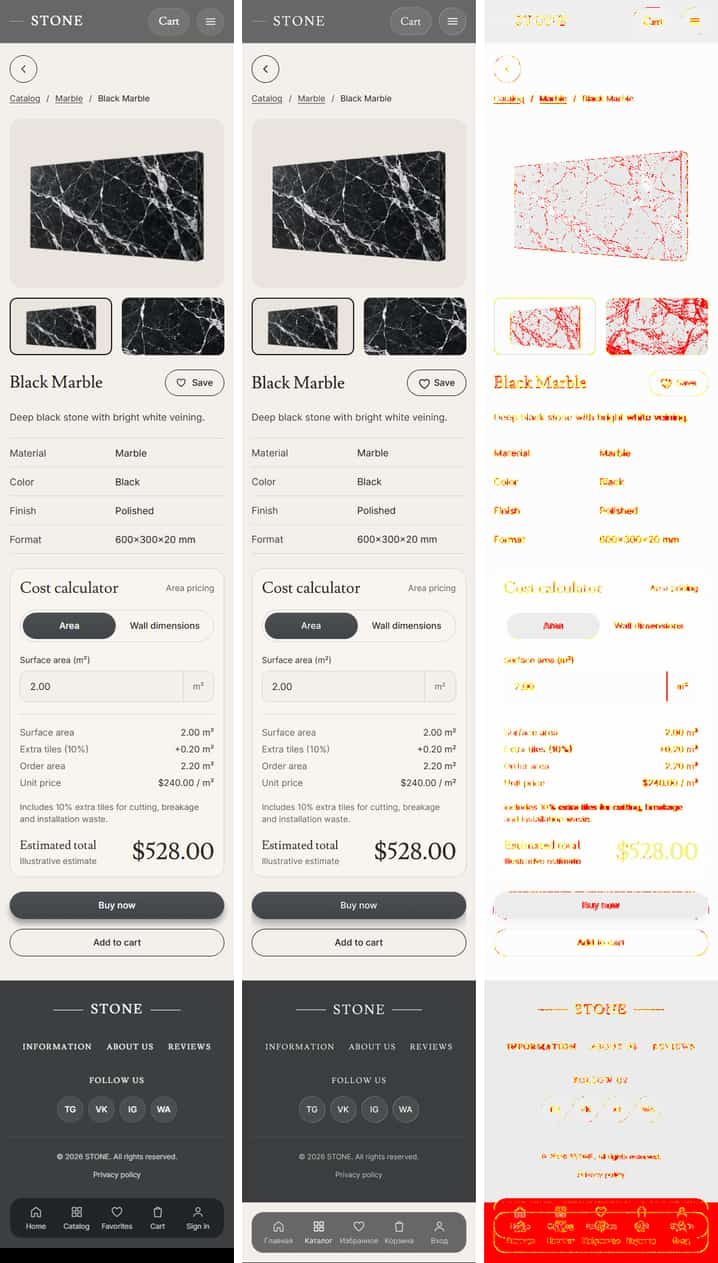
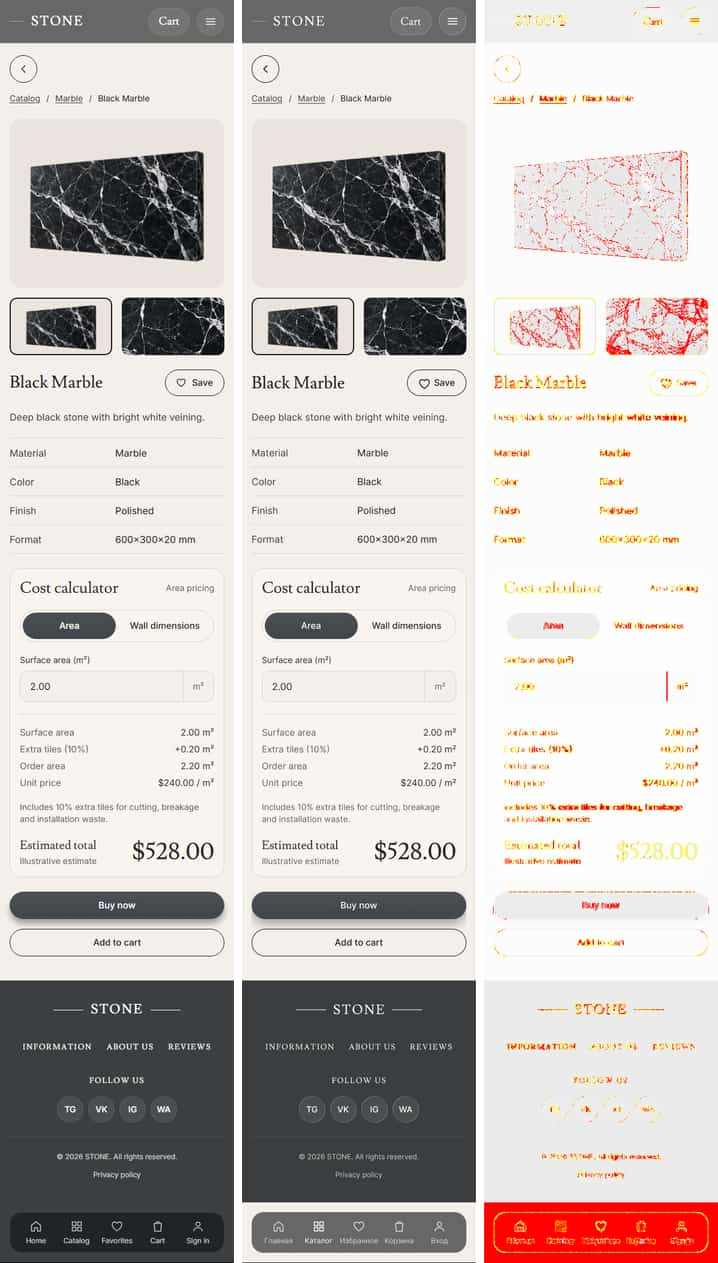
docs: update Phase 3 page comparison after fix round 1
Recompress the Figma page references losslessly, refresh the strips and results.

Changed region(s): [[0.0, 0.9264, 0.337, 1.0], [0.7047, 0.9264, 0.9805, 0.9881]]

diff --git a/docs/QA/phase-3-pages.md b/docs/QA/phase-3-pages.md
@@ -1,4 +1,4 @@
-# Phase 3 pages: Figma visual comparison notes
+# Phase 3 pages: Figma visual comparison notes
 
 Branch `feat/phase-3-pages`. Source of truth: Figma `1vEGuD9cYYFNynyByUGHwF` (read only).
 Raw output of the run: [`phase-3/results.md`](phase-3/results.md). Only a curated set of images is committed (see "Evidence").
@@ -42,42 +42,64 @@ Status "Accepted" means the difference is explained by the classes shown. Classe
 copy Figma does not (placeholder-price line, language switch); height = shift from that copy; glass = glass or
 backdrop approximation; font = text antialiasing; frame = Figma frame inconsistency; defect = see the defects list.
 
-| Page (route)                              | Width | Mismatch % | Height delta | Classification                                                                                             | Status            |
-| ----------------------------------------- | ----- | ---------- | ------------ | ---------------------------------------------------------------------------------------------------------- | ----------------- |
-| home (`/en`)                              | 1440  | 12.78      | +2           | glass (panel tone, footer), language switch, "Prices are illustrative" line, old-price frame, font; D1, D2 | Accepted + D1, D2 |
-| home                                      | 1024  | 19.29      | +2           | same as 1440; Figma Taupe Rock price $33 vs seed $32 (frame)                                               | Accepted + D1, D2 |
-| home                                      | 768   | 25.81      | +1           | same as 1440; hero reinterpretation as drawn; prev arrow disabled at the start (behaviour)                 | Accepted + D1, D2 |
-| home                                      | 390   | 10.67      | -30          | footer flat vs Figma gradient, tab bar reference (see below), "Prices are illustrative" line, hero covered | Accepted          |
-| catalog (`/en/catalog`)                   | 1440  | 19.03      | +20          | height (placeholder-price line, +20 px shifts the grid), language switch, font                             | Accepted          |
-| catalog                                   | 1024  | 21.39      | +20          | height (placeholder-price line), font                                                                      | Accepted          |
-| catalog                                   | 768   | 21.53      | +20          | height (placeholder-price line), font                                                                      | Accepted          |
-| catalog                                   | 390   | 21.38      | -4           | height (placeholder-price line), cards stretch to the row height (D3), tab bar reference                   | Accepted + D3     |
-| black-marble (`/en/catalog/black-marble`) | 1440  | 0.86       | 0            | font                                                                                                       | Accepted          |
-| black-marble                              | 1024  | 1.26       | 0            | font                                                                                                       | Accepted          |
-| black-marble                              | 768   | 4.24       | -8           | font; thumbnails to title gap 6 to 8 px tighter (D4)                                                       | Accepted + D4     |
-| black-marble                              | 390   | 6.94       | -25          | tab bar reference (flat grey, Figma), footer bottom band, font                                             | Accepted          |
-| charcoal-ledger                           | 1440  | 1.09       | 0            | font                                                                                                       | Accepted          |
-| charcoal-ledger                           | 1024  | 1.42       | 0            | font                                                                                                       | Accepted          |
-| charcoal-ledger                           | 768   | 4.38       | -8           | font; D4                                                                                                   | Accepted + D4     |
-| charcoal-ledger                           | 390   | 6.65       | -25          | tab bar reference, footer bottom band, font                                                                | Accepted          |
-| concrete-paver                            | 1440  | 0.91       | 0            | font                                                                                                       | Accepted          |
-| concrete-paver                            | 1024  | 1.15       | 0            | font                                                                                                       | Accepted          |
-| concrete-paver                            | 768   | 4.10       | -8           | font; D4                                                                                                   | Accepted + D4     |
-| concrete-paver                            | 390   | 6.64       | -25          | tab bar reference, footer bottom band, font                                                                | Accepted          |
+| Page (route)                              | Width | Mismatch % | Height delta | Classification                                                                                      | Status   |
+| ----------------------------------------- | ----- | ---------- | ------------ | --------------------------------------------------------------------------------------------------- | -------- |
+| home (`/en`)                              | 1440  | 1.08       | +2           | font; language switch; "Prices are illustrative" line; old-price frame; D1 fixed                    | Accepted |
+| home                                      | 1024  | 2.64       | +2           | same as 1440; Figma Taupe Rock price $33 vs seed $32 (frame); Prev arrow disabled at the start (D2) | Accepted |
+| home                                      | 768   | 10.64      | +1           | footer flat vs Figma glass over a fade (owner item), font, "Prices are illustrative" line           | Accepted |
+| home                                      | 390   | 3.41       | -6           | footer flat vs Figma gradient, hero covered by the catalog panel as drawn, tab bar reference        | Accepted |
+| catalog (`/en/catalog`)                   | 1440  | 19.03      | +20          | height (placeholder-price line, +20 px shifts the grid), language switch, font                      | Accepted |
+| catalog                                   | 1024  | 21.39      | +20          | height (placeholder-price line), font                                                               | Accepted |
+| catalog                                   | 768   | 21.53      | +20          | height (placeholder-price line), font                                                               | Accepted |
+| catalog                                   | 390   | 21.82      | +20          | height (placeholder-price line), tab bar reference; card heights match Figma (D3 withdrawn)         | Accepted |
+| black-marble (`/en/catalog/black-marble`) | 1440  | 0.86       | 0            | font                                                                                                | Accepted |
+| black-marble                              | 1024  | 1.26       | 0            | font                                                                                                | Accepted |
+| black-marble                              | 768   | 1.39       | 0            | font (D4 fixed: was 4.24 %, -8 px)                                                                  | Accepted |
+| black-marble                              | 390   | 6.74       | -1           | tab bar reference (flat grey in Figma), font (D5 fixed: was -25 px)                                 | Accepted |
+| charcoal-ledger                           | 1440  | 1.09       | 0            | font                                                                                                | Accepted |
+| charcoal-ledger                           | 1024  | 1.42       | 0            | font                                                                                                | Accepted |
+| charcoal-ledger                           | 768   | 1.54       | 0            | font (D4 fixed: was 4.38 %)                                                                         | Accepted |
+| charcoal-ledger                           | 390   | 6.45       | -1           | tab bar reference, font (D5 fixed)                                                                  | Accepted |
+| concrete-paver                            | 1440  | 0.91       | 0            | font                                                                                                | Accepted |
+| concrete-paver                            | 1024  | 1.15       | 0            | font                                                                                                | Accepted |
+| concrete-paver                            | 768   | 1.25       | 0            | font (D4 fixed: was 4.10 %)                                                                         | Accepted |
+| concrete-paver                            | 390   | 6.44       | -1           | tab bar reference, font (D5 fixed)                                                                  | Accepted |
 
-Every row above 5 % is explained: the home and catalog rows by the classes shown (they are layout-shift dominated, the
-catalog grid itself matches card for card at 1440), the three product 390 rows by the Figma tab bar reference and the
-25 px height of its bottom band. The product pages at 1440 and 1024 are within 1.5 % (text antialiasing only):
-gallery, specs, calculator, buttons, footer match.
+Every row above 5 % is explained: the catalog rows by the 20 px placeholder-price line that shifts the whole grid
+(the grid itself matches card for card), home 768 by the flat footer (the footer is 370 px tall there), and the three
+product 390 rows by the Figma tab bar reference (a baked flat grey, see Phase 2 notes). The product pages at 1440, 1024
+and 768 are within 1.6 % (text antialiasing only): gallery, specs, calculator, buttons, footer match.
 
-## Defects (for the lead, not fixed here)
+## Defects and their status
 
-| ID  | Page, component                                         | Figma node                                       | Expected (Figma)                                           | Actual                                                                                                                                                                                         | Severity             |
-| --- | ------------------------------------------------------- | ------------------------------------------------ | ---------------------------------------------------------- | ---------------------------------------------------------------------------------------------------------------------------------------------------------------------------------------------- | -------------------- |
-| D1  | Home, section panels (glass panel behind each carousel) | 722:1300 (1440), 722:1563 (1024), 724:1669 (768) | Panel fill darker: sampled rgb about 71,71,72 and 87,88,90 | Panel lighter: rgb 98,98,98 and 113,113,115 at the same pixels (about 27 levels), same photo behind; glass fill or blur weaker than Figma                                                      | Medium               |
-| D2  | Home, carousel arrows at 1440                           | 722:1300                                         | Prev and Next drawn enabled (white circle, dark arrow)     | Both arrows dimmed (disabled): the three cards fit, nothing to scroll. At 1024 and 768 Prev is dimmed at the start. Behaviour is deliberate in Carousel, but it differs from every Figma frame | Low (needs a ruling) |
-| D3  | Catalog at 390, product grid                            | 922:26324                                        | Cards keep their own height in a row                       | Cards stretch to the tallest card of the row (Concrete Paver row: neighbour card has empty space)                                                                                              | Low                  |
-| D4  | Product at 768, rhythm below the gallery                | 782:11639 (Black Marble)                         | Thumbnails to title about 6 to 8 px more, page 2361 px     | Page 2353 px (8 px shorter), title block starts higher                                                                                                                                         | Low                  |
+Found by the first run, handled in fix round 1 (root cause first, evidence below).
+
+| ID  | Page, component                            | Figma node                                     | Finding                                                                                             | Status                                                                                           |
+| --- | ------------------------------------------ | ---------------------------------------------- | --------------------------------------------------------------------------------------------------- | ------------------------------------------------------------------------------------------------ |
+| D1  | Home, section panels                       | 722:1310 (panel), 722:1300, 722:1563, 724:1669 | Panel about 27 levels lighter than Figma at the same pixels                                         | FIXED (cause below); home 1440 12.78 % to 1.08 %, 1024 19.29 % to 2.64 %                         |
+| D2  | Home, carousel arrows                      | 722:1317, 722:1325 (1440), 722:1300            | Arrows dimmed when nothing scrolls (1440) or at the start (Prev, 1024 and 768); Figma draws enabled | Kept: deliberate behaviour (a disabled control that cannot move). Owner checklist                |
+| D3  | Catalog grid at 390                        | 922:26324                                      | Reported "cards stretch to the row height"                                                          | WITHDRAWN, a misreading: the grid is already `items-start`; heights 318 / 340 vs Figma 316 / 338 |
+| D4  | Product at 768, gallery to title gap       | 782:11639 (Gallery 782:11645, Info 782:11650)  | Info block started 24 px under the thumbnails, Figma 32                                             | FIXED (`md:gap-8`); page now 2361 px like Figma; mismatch 4.24 % to 1.39 %                       |
+| D5  | Footer at 390 (new, found while fixing D4) | 782:11752 (370 px footer), 782:11727           | The 100 px tab-bar padding replaced the footer's own 24 px bottom padding (impl 446 px vs 470)      | FIXED (`pb-footer-tabbar` = 24 + 100); every 390 product page now within 1 px of Figma           |
+
+D1 root cause. The fill matches Figma exactly (`surface/panel` #1214168c, blur 12 = Figma radius 24, border, shadow, radius
+and the backdrop photo outside the panels within 3 to 5 levels). Inside the panel Figma is darker at every sampled point
+by the same factor: at (100,780) 71 vs 98, at (100,1250) 65 vs 89, at (1330,1250) 70 vs 99, at (1330,1700) 71 vs 101,
+which is an effective fill alpha of 0.70 instead of 0.55. The cause is the drop shadow `0 16 40 rgba(0,0,0,.35)`: Figma
+draws it THROUGH the translucent fill (it is visible behind the node), while CSS `box-shadow` is clipped inside the
+border box. Fix: `--effect-glass-panel-shadow-through: 0.28` and the `glass-panel-veil` utility (a 28 % black layer over
+the fill), applied to the home section panels. After: the same four points read 71 vs 71, 64 vs 65, 71 vs 70, 73 vs 71.
+Near the top edge the veil overshoots slightly (80 vs 87 at (700,690)) because the real shadow fades towards the edge.
+This is not the Phase 2 "blur 2x" question: the blur values were already equal. Guarded by an e2e test on the veil.
+
+D4 numbers (Figma 782:11639 against the page at 768, absolute y; layout identical except one gap): Product 158, Columns
+202, thumbnails 772.67 (gap 16 under the 554.67 image), thumbnails end 904.67, Info 936.67 (gap 32), Description +76,
+Specs +122 (193), Calculator +339 (503), Actions +866 (108), Main padding-bottom 80, Footer 370. Before the fix every item
+after the gallery sat 8 px higher (Info at 928.66). At 390 the gap is 24 in both (418.06 - 394.06), unchanged. Guarded by
+an e2e test (gap 32 at 768, 24 at 390).
+
+D5 numbers (Figma 782:11727): Footer instance 370 px at y 1634.06, band 100 px below it (tab bar at 2020, page ends
+2104). Implementation footer was 446 px (346 content + 100) because `pb-tabbar` replaced the footer's own `pb-6`.
 
 Not defects (Figma inconsistency, listed for the owner): the old price is struck through in the catalog frames but
 drawn plain in the home frames, while both use the same component (the implementation strikes through everywhere);
@@ -115,7 +137,7 @@ darker bar fill (about 0.80 alpha gives at least 4.5:1) or inactive labels at fu
 - Hero: 1440 backdrop upscaled from the 1440 source to the 1984 box; 1024 and 768 use their scene crops, 390 hero is
   covered by the catalog panel exactly as Figma draws it.
 - Mobile (390): the Figma tab bar reference is a baked flat render of a translucent fill (see Phase 2 notes), so the bar
-  never matches pixel for pixel; its bottom band is a lighter strip and 25 px taller in Figma.
+  never matches pixel for pixel; Figma draws the band below the footer lighter than the footer.
 - Photos: seven catalog images and the Works images exist only as 390 px sources and are soft on DPR 2 desktop cards.
 - Font rendering: thin outlines around every glyph in the diffs.
 
@@ -130,8 +152,8 @@ Phase 3:
       Keep, reword or replace with confirmed prices before launch.
 - [ ] Localised 404 (unknown product or path): not designed in Figma. Built from tokens inside the shell with a link
       back to the catalog; copy `pages.notFound`.
-- [ ] Russian copy: every ru string except the Figma tab labels is a draft. Includes the hero line, where «долговечность»
-      may be too long at 390 (fallback «прочность»), «Рваный скол», «Любая обработка», «Цена за м²», the calculator
+- [ ] Russian copy: every ru string except the Figma tab labels is a draft. Includes the hero line, where В«РґРѕР»РіРѕРІРµС‡РЅРѕСЃС‚СЊВ»
+      may be too long at 390 (fallback В«РїСЂРѕС‡РЅРѕСЃС‚СЊВ»), В«Р РІР°РЅС‹Р№ СЃРєРѕР»В», В«Р›СЋР±Р°СЏ РѕР±СЂР°Р±РѕС‚РєР°В», В«Р¦РµРЅР° Р·Р° РјВІВ», the calculator
       labels and the filter and sort labels. English colour and finish labels are derived from Figma ids.
 - [ ] Inert controls (default Figma look, non-link, `aria-disabled`, out of the tab order) until their pages exist:
       header and menu Create Your Stone, Cart, account; tab bar Favorites, Cart, Sign in; Projects; product hearts and
@@ -153,8 +175,9 @@ Phase 3:
 - [ ] 360 px: checked by e2e (no horizontal overflow in ru on catalog and product), not compared pixel for pixel.
 - [ ] Tab bar contrast: inactive labels are 3.7 to 4.05:1 over light backdrops (table above). Accept Figma's tokens, or
       darken the bar fill, or use full white labels.
-- [ ] D1 (home panel glass tone), D2 (home carousel arrows disabled when nothing scrolls), D3 (catalog cards stretch at
-      390), D4 (product 768 rhythm): fix or accept.
+- [ ] D2: the home carousel arrows are disabled when nothing can scroll (all three cards fit at 1440) and Prev at the start
+      (1024, 768); Figma frames 722:1300, 722:1563 and 724:1669 draw every arrow enabled (nodes 722:1317, 722:1325).
+      Kept as correct behaviour; confirm. D1, D4 and D5 are fixed, D3 was a misreading (see Defects).
 - [ ] Old price strike-through: kept on every card (catalog frames draw it, home frames do not).
 - [ ] Cost calculator: limits (area 0.01 to 10 000 m2, wall sides 0.01 to 100 m), +10 % extra tiles, default 2.00 m2;
       the mode switch has no animation (Figma may have a smart-animate); ru wraps the calculator header and total
@@ -163,13 +186,14 @@ Phase 3:
 Carried over from Phase 2 (still apply):
 
 - [ ] Motion timings are defaults (hover 180 ms, ripple 600 ms, carousel smooth scroll); Figma has no motion data.
-- [ ] Glass approximation values and the blur conversion rule (Figma blur radius = 2x CSS blur): settle one rule; D1 may
-      be related to it.
+- [ ] Glass approximation values and the blur conversion rule (Figma blur radius = 2x CSS blur): settle one rule. D1 showed
+      the panel blur was already equal; the difference was the shadow seen through the fill (now the `glass-panel-veil`
+      token, 0.28); the same effect may apply to other translucent shadowed glass (showcase work card).
 - [ ] Button, icon button, field, select and product card states chosen by the implementer (see Phase 2 list); primary
       button focus ring weak on light surfaces.
 - [ ] Header breakpoint: Full at 1280 and up, Compact below (Figma draws Compact at 1024, 768, 390, 360).
 - [ ] Mobile menu panel is not in Figma. Without JavaScript the compact header menu is inert between 768 and 1279 px.
-- [ ] Footer copyright "© 2026" is fixed text; ru strings in the header, footer and tab bar are drafts.
+- [ ] Footer copyright "В© 2026" is fixed text; ru strings in the header, footer and tab bar are drafts.
 - [ ] Cyrillic PT Serif in Lusitana roles: eyeball it on the real pages in ru.
 - [ ] Question O1 (graphite search panel look) and the hero search Open state taken from Search/Pill 21:108.
 - [ ] `APP_ENV=production` on any real production deploy (the styleguide is a 404 there).
@@ -179,14 +203,14 @@ Carried over from Phase 2 (still apply):
 From the task reviews, none blocks the phase:
 
 - T0: `LOW_RES` list is hard-coded in `assets.test.ts`.
-- T1: `Localizer` has no locale for `localeCompare` (the catalog passes the locale); no Cyrillic sort test; ё and е are
+- T1: `Localizer` has no locale for `localeCompare` (the catalog passes the locale); no Cyrillic sort test; С‘ and Рµ are
   not normalised in the repository itself (the search does it); enum params are case-sensitive; seed objects are shared
   by reference.
 - T2: ".5" is rejected, so the UI error copy should say "e.g. 0.5".
 - T3: "10 %" spacing in one string; the message test does not compare ICU arguments or `pages.*` coverage.
 - T5: the inert style lists duplicate the resting styles (drift risk); hero LCP preload only at 1024 and 1440; the 390
   hero search uses `max-md:invisible` instead of `inert`.
-- T7: the calculator live region can announce "—" up to 800 ms before the error text.
+- T7: the calculator live region can announce "вЂ”" up to 800 ms before the error text.
 
 ## Evidence
 

diff --git a/docs/QA/phase-3/results.md b/docs/QA/phase-3/results.md
@@ -4,23 +4,23 @@ Notes: the height delta is implementation height minus Figma height; a non-zero 
 
 | id              | route                       | width | mismatch % | impl WxH  | figma WxH | height delta |
 | --------------- | --------------------------- | ----- | ---------- | --------- | --------- | ------------ |
-| home            | /en                         | 1440  | 12.78      | 1440x2210 | 1440x2208 | +2           |
-| home            | /en                         | 1024  | 19.29      | 1024x2050 | 1024x2048 | +2           |
-| home            | /en                         | 768   | 25.81      | 768x2220  | 768x2219  | +1           |
-| home            | /en                         | 390   | 10.67      | 390x1672  | 390x1702  | -30          |
+| home            | /en                         | 1440  | 1.08       | 1440x2210 | 1440x2208 | +2           |
+| home            | /en                         | 1024  | 2.64       | 1024x2050 | 1024x2048 | +2           |
+| home            | /en                         | 768   | 10.64      | 768x2220  | 768x2219  | +1           |
+| home            | /en                         | 390   | 3.41       | 390x1696  | 390x1702  | -6           |
 | catalog         | /en/catalog                 | 1440  | 19.03      | 1440x2074 | 1440x2054 | +20          |
 | catalog         | /en/catalog                 | 1024  | 21.39      | 1024x2432 | 1024x2412 | +20          |
 | catalog         | /en/catalog                 | 768   | 21.53      | 768x3428  | 768x3408  | +20          |
-| catalog         | /en/catalog                 | 390   | 21.38      | 390x3380  | 390x3384  | -4           |
+| catalog         | /en/catalog                 | 390   | 21.82      | 390x3404  | 390x3384  | +20          |
 | black-marble    | /en/catalog/black-marble    | 1440  | 0.86       | 1440x1438 | 1440x1438 | 0            |
 | black-marble    | /en/catalog/black-marble    | 1024  | 1.26       | 1024x1446 | 1024x1446 | 0            |
-| black-marble    | /en/catalog/black-marble    | 768   | 4.24       | 768x2353  | 768x2361  | -8           |
-| black-marble    | /en/catalog/black-marble    | 390   | 6.94       | 390x2080  | 390x2105  | -25          |
+| black-marble    | /en/catalog/black-marble    | 768   | 1.39       | 768x2361  | 768x2361  | 0            |
+| black-marble    | /en/catalog/black-marble    | 390   | 6.74       | 390x2104  | 390x2105  | -1           |
 | charcoal-ledger | /en/catalog/charcoal-ledger | 1440  | 1.09       | 1440x1438 | 1440x1438 | 0            |
 | charcoal-ledger | /en/catalog/charcoal-ledger | 1024  | 1.42       | 1024x1498 | 1024x1498 | 0            |
-| charcoal-ledger | /en/catalog/charcoal-ledger | 768   | 4.38       | 768x2353  | 768x2361  | -8           |
-| charcoal-ledger | /en/catalog/charcoal-ledger | 390   | 6.65       | 390x2080  | 390x2105  | -25          |
+| charcoal-ledger | /en/catalog/charcoal-ledger | 768   | 1.54       | 768x2361  | 768x2361  | 0            |
+| charcoal-ledger | /en/catalog/charcoal-ledger | 390   | 6.45       | 390x2104  | 390x2105  | -1           |
 | concrete-paver  | /en/catalog/concrete-paver  | 1440  | 0.91       | 1440x1438 | 1440x1438 | 0            |
 | concrete-paver  | /en/catalog/concrete-paver  | 1024  | 1.15       | 1024x1446 | 1024x1446 | 0            |
-| concrete-paver  | /en/catalog/concrete-paver  | 768   | 4.10       | 768x2353  | 768x2361  | -8           |
-| concrete-paver  | /en/catalog/concrete-paver  | 390   | 6.64       | 390x2102  | 390x2127  | -25          |
+| concrete-paver  | /en/catalog/concrete-paver  | 768   | 1.25       | 768x2361  | 768x2361  | 0            |
+| concrete-paver  | /en/catalog/concrete-paver  | 390   | 6.44       | 390x2126  | 390x2127  | -1           |

diff --git a/docs/DEVELOPMENT.md b/docs/DEVELOPMENT.md
@@ -45,7 +45,7 @@ Extra scripts and the styleguide:
 - `pnpm images` (`scripts/optimize-images.mjs`) builds the WebP width sets listed in `assets/figma-manifest.json`.
 - `pnpm qa:visual` (`scripts/visual-compare.mjs`) compares styleguide components with the Figma reference screenshots in `tests/visual/figma/` and writes `-impl`/`-figma`/`-diff` PNGs and `results.md` to `docs/QA/phase-2/` (only the curated set is committed; it is a report, not a gate). It needs a running production server: `pnpm build`, `pnpm start` in another terminal, then `pnpm qa:visual`, or point it elsewhere with `BASE_URL=https://... pnpm qa:visual`.
 - Pages: `/ru` and `/en` (home), `/<locale>/catalog` (filters live in the URL: `material`, `color`, `finish`, `sort`, `q`, `sale`), `/<locale>/catalog/<slug>` (product with cost calculator). Catalog data is the static seed in `src/server/catalog/seed.ts` behind the `CatalogRepository` interface (see `docs/ARCHITECTURE.md`). Controls whose pages are not built are inert (`PHASE3_INERT` in `src/components/navigation/nav-items.ts`).
-- `pnpm qa:visual:pages` (= `node scripts/visual-compare.mjs --pages`) is the page mode of the same script: full-page screenshots of `/en`, `/en/catalog` and three product pages at 1440, 1024, 768 and 390 against the Figma screens in `tests/visual/figma/pages/` (map: `pages` in `references.json`; `QA_IDS` filters page ids, `QA_WIDTHS` filters widths). It writes `-impl`/`-figma`/`-diff` PNGs and `results.md` to `docs/QA/phase-3/`; only `results.md` and the curated `*-triplet.jpg` strips (impl, figma, diff side by side) are committed. Same requirements as component mode (running production server). The reading of the results is in `docs/QA/phase-3-pages.md`.
+- `pnpm qa:visual:pages` (the same as `pnpm qa:visual --pages` or `pnpm qa:visual -- --pages`; pnpm forwards both spellings) is the page mode of the same script: full-page screenshots of `/en`, `/en/catalog` and three product pages at 1440, 1024, 768 and 390 against the Figma screens in `tests/visual/figma/pages/` (map: `pages` in `references.json`; `QA_IDS` filters page ids, `QA_WIDTHS` filters widths). It writes `-impl`/`-figma`/`-diff` PNGs and `results.md` to `docs/QA/phase-3/`; only `results.md` and the curated `*-triplet.jpg` strips (impl, figma, diff side by side) are committed. Same requirements as component mode (running production server). The reading of the results is in `docs/QA/phase-3-pages.md`.
 - The component styleguide lives at `/ru/_styleguide` and `/en/_styleguide`. It is a 404 when `APP_ENV=production`, and it is `noindex`.
 - `pnpm test:e2e` starts two servers: `pnpm start` on port 3000 and a second `next start -p 3001` with `APP_ENV=production` for the `production-guard` project (the styleguide must 404 there). Free both ports first; existing servers are reused outside CI.
 - Motion shipped so far is listed in `docs/ANIMATIONS.md`.
